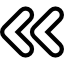
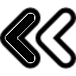
Music Player
Att 02 - 15/08/2024
Melhoria do CSS

Changed region(s): [[0.0, 0.0938, 0.5625, 0.9062], [0.4375, 0.0938, 1.0, 0.9062]]

diff --git a/Js - Music Player/music_player.css b/Js - Music Player/music_player.css
@@ -19,12 +19,12 @@ body {
     background-color: rgb(199, 44, 44);
     background-image: var(--bg1);
     background-position: center top;
+    background-repeat: no-repeat;
+    background-size: cover;
     height: 100vh;
     width: auto;
     /*background-size: 200%;*/
-    backdrop-filter:blur(5px);
-    background-size: cover;
-    background-repeat: no-repeat;
+    backdrop-filter:blur(3.5px);
     display: flex;
     justify-content: center;
     align-items: center;
@@ -40,21 +40,23 @@ audio {
 .main {
     height: 630px;
     width: 340px;
-    /*background-color: lightblue;*/
+    background-color: rgba(134, 162, 172, 0.199);
+    /*
     border: 2px dashed darkblue;
-    /*background-attachment: fixed;*/
+    background-attachment: fixed;*/
     justify-content: center;
     align-items: center;
-    box-shadow: 0px 10px 10px 10px black;
+    box-shadow: 0px 4px 15px 12px black;
 }
 
 
 
 .div_pic {
     /*padding-top: 50px;*/
-    height: 420px;
+    height: 440px;
     width: 340px;
-    /*background-color: aquamarine;
+    /*
+    background-color: aquamarine;
     border: 1px dashed yellow;*/
     display: flex;
     flex-direction: column;
@@ -62,11 +64,12 @@ audio {
     align-items: center;
     font-size: 20px;
     color: #ccc;
+    margin-bottom: 10px;
 }#imgID {
     border: 3.6px solid black;
     margin-bottom: 15px;
 }
-
+/* n existe mais
 .div_audio {
     margin-top: 20px;
     display: flex;
@@ -75,7 +78,7 @@ audio {
     height: 90px;
     width: auto;
     padding-bottom: 20px;
-}
+}*/
 
 .barra {
     margin: 0 auto;
@@ -103,7 +106,7 @@ audio {
 }.tempo {
     display: flex;
     justify-content: space-between;
-    padding: 15px 10px;
+    padding: 15px 20px;
     font-size: 20px;
     color: aliceblue;
 }
@@ -111,7 +114,7 @@ audio {
 
 
 .div_pass {
-    height: 125px;
+    height: 85px;
     width: auto;
     /*background-color: rgb(78, 129, 112);*/
     border: 1px dashed yellow;
@@ -119,17 +122,24 @@ audio {
     justify-content: center;
     align-items: center;
     column-gap: 35px;
-    padding-top: 20px;
+    /*
+    padding-top: 20px;*/
 }.div_pass button {
     background-color: gainsboro;
     border: none;
     border-radius: 25%;
     border-bottom-left-radius: 40px;
-    
     border-bottom-right-radius: 40px;
+    width: 82px;
+    height: 82px;
 }
 .div_pass button:hover, progress {
     cursor: pointer;
+}
+.div_pass button img {
+    width: 82px;
+    height: 82px;
+    
 }
 .musicAudio {
     width: 30px;

diff --git a/Js - Music Player/music_player.js b/Js - Music Player/music_player.js
@@ -15,7 +15,8 @@ const progressBar = document.getElementById("myProgress");
 const teste = document.getElementById('teste')
 const ponto = document.querySelector('.ponto')
 
-
+const msc_org = ['Doom Eternal', ]
+const msc_name = ['The Only Thing They Fear Is You']
 // play ou pause
 function play(){
     MA.play()

diff --git a/Js - Music Player/music_player.html b/Js - Music Player/music_player.html
@@ -13,6 +13,7 @@
     <main class="main">
         <div class="div_pic">
             <img src="Cover 1.jpg" id="imgID" alt="">
+            <h2>Origem</h2>
             <p class="music_name">Nome da Música</p>
         </div>
         <audio id="musicAudio" src="Audio 1.mp3" type="audio/mp3"></audio>
